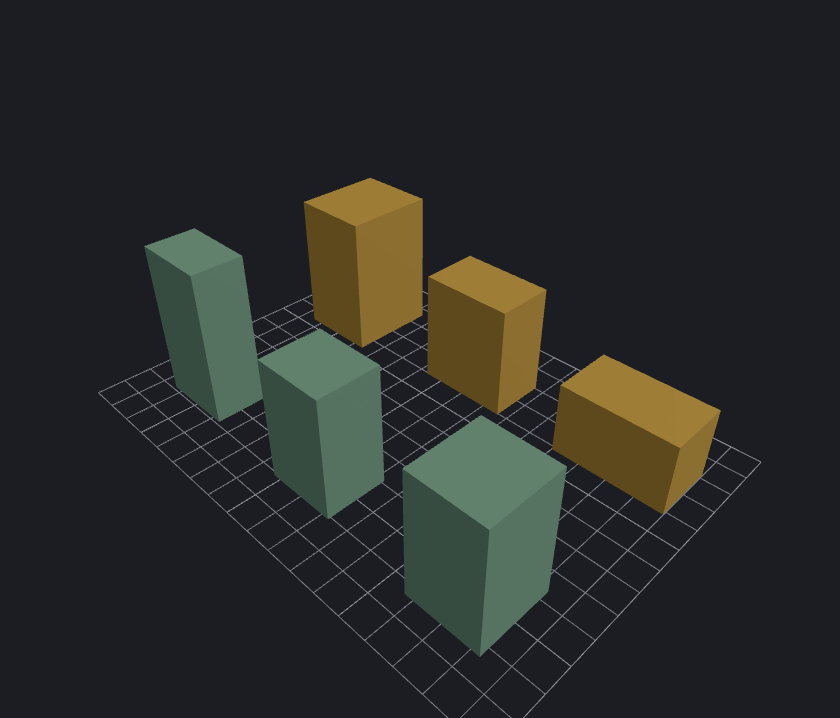
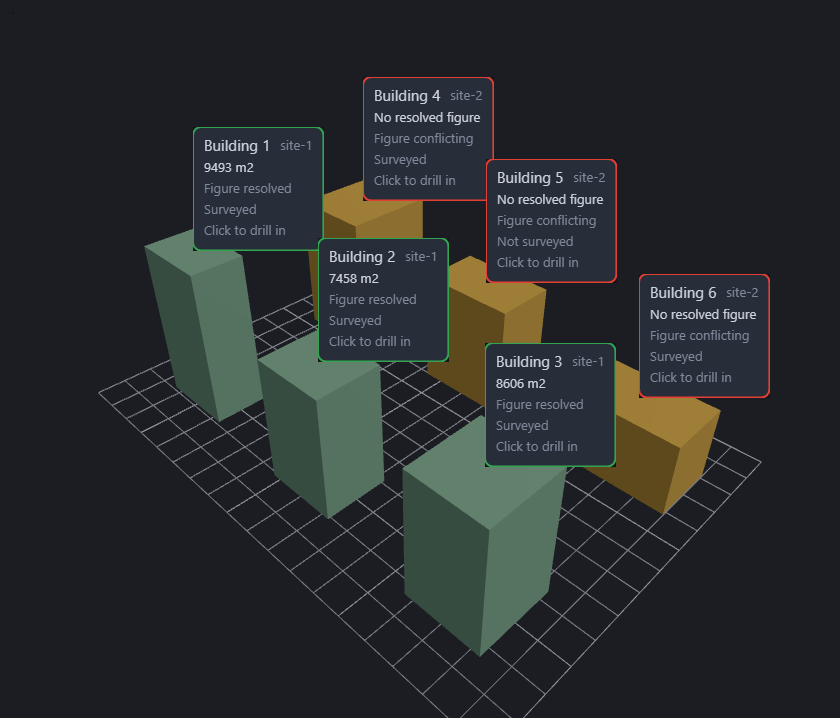
chore(gallery): capture the cards from the real model
Five of five demos drew, about eleven seconds each. Every card is now a
photograph of the demo on Snowdon Towers rather than the stand-in.

Changed region(s): [[0.2167, 0.1226, 0.9286, 0.6741], [0.3405, 0.1838, 0.3714, 0.2145]]

diff --git a/viewer/packages/demos/docs/gallery-smoke.md b/viewer/packages/demos/docs/gallery-smoke.md
@@ -1,12 +1,12 @@
 # Gallery browser smoke
 
-Run 2026-09-08T06:45:42.508Z. 5 of 5 demos drew.
+Run 2026-09-08T08:15:43.322Z. 5 of 5 demos drew.
 Thumbnails are written to `public/thumbnails/<id>.png` and shown on the index cards.
 
 | Demo | Result | Time | What it reported |
 |---|---|---|---|
-| capture | drew | 3387 ms | captured=false, width=0, height=0, bytes=0, size=none, hud=true |
-| environment | drew | 5354 ms | preset=Studio, sunIntensity=1.4, skyIntensity=0.55, groundPlane=true, axes=true, grid=true, up=z |
-| explode-and-grid | drew | 3043 ms | layoutKind=explode, by=storey, strength=0.35, gridSpacing=0, gridColumns=0 |
-| point-and-read | drew | 38462 ms | objects=150, wallsHidden=66, facts=87, factsKnown=47, factsMissing=36, factsConflicting=4, shown=none, shownFacts=0, pinned=false |
-| portfolio | drew | 3292 ms | ok=true, metric=totalFloorAreaM2, buildings=6, documents=9, unmappedDocuments=1, ambiguousDocuments=2, resolvedFigures=6, unresolvedFigures=12, sitesWithRollup=1, sites=2, drilled=none |
+| capture | drew | 10982 ms | captured=true, width=1600, height=1000, bytes=94340, size=Report 1600×1000, hud=true, opening=taken |
+| environment | drew | 11045 ms | preset=Studio, sunIntensity=1.4, skyIntensity=0.55, groundPlane=true, axes=true, grid=true, up=z |
+| explode-and-grid | drew | 10411 ms | layoutKind=explode, by=category, strength=0.5, gridSpacing=0, gridColumns=0, objects=51139, storeys=92, categories=97, placements=13712, moved=51139, caveat= |
+| point-and-read | drew | 10969 ms | objects=51139, wallsHidden=1348, facts=0, factsKnown=0, factsMissing=0, factsConflicting=0, properties=1620524, propertyDescriptors=2545, propertiesDropped=0, documents=7, storeyLinks=17198, shown=none, shownCategory=none, shownFacts=0, shownProperties=0, shownPropertyGroups=0, shownDocument=none, shownStorey=none, shownStoreyVia=none, shownQuantity=none, pinned=false |
+| portfolio | drew | 5827 ms | ok=true, basis=synthetic, metric=totalFloorAreaM2, buildings=6, documents=9, unmappedDocuments=1, ambiguousDocuments=2, resolvedFigures=6, unresolvedFigures=12, sitesWithRollup=1, sites=2, drilled=none |
